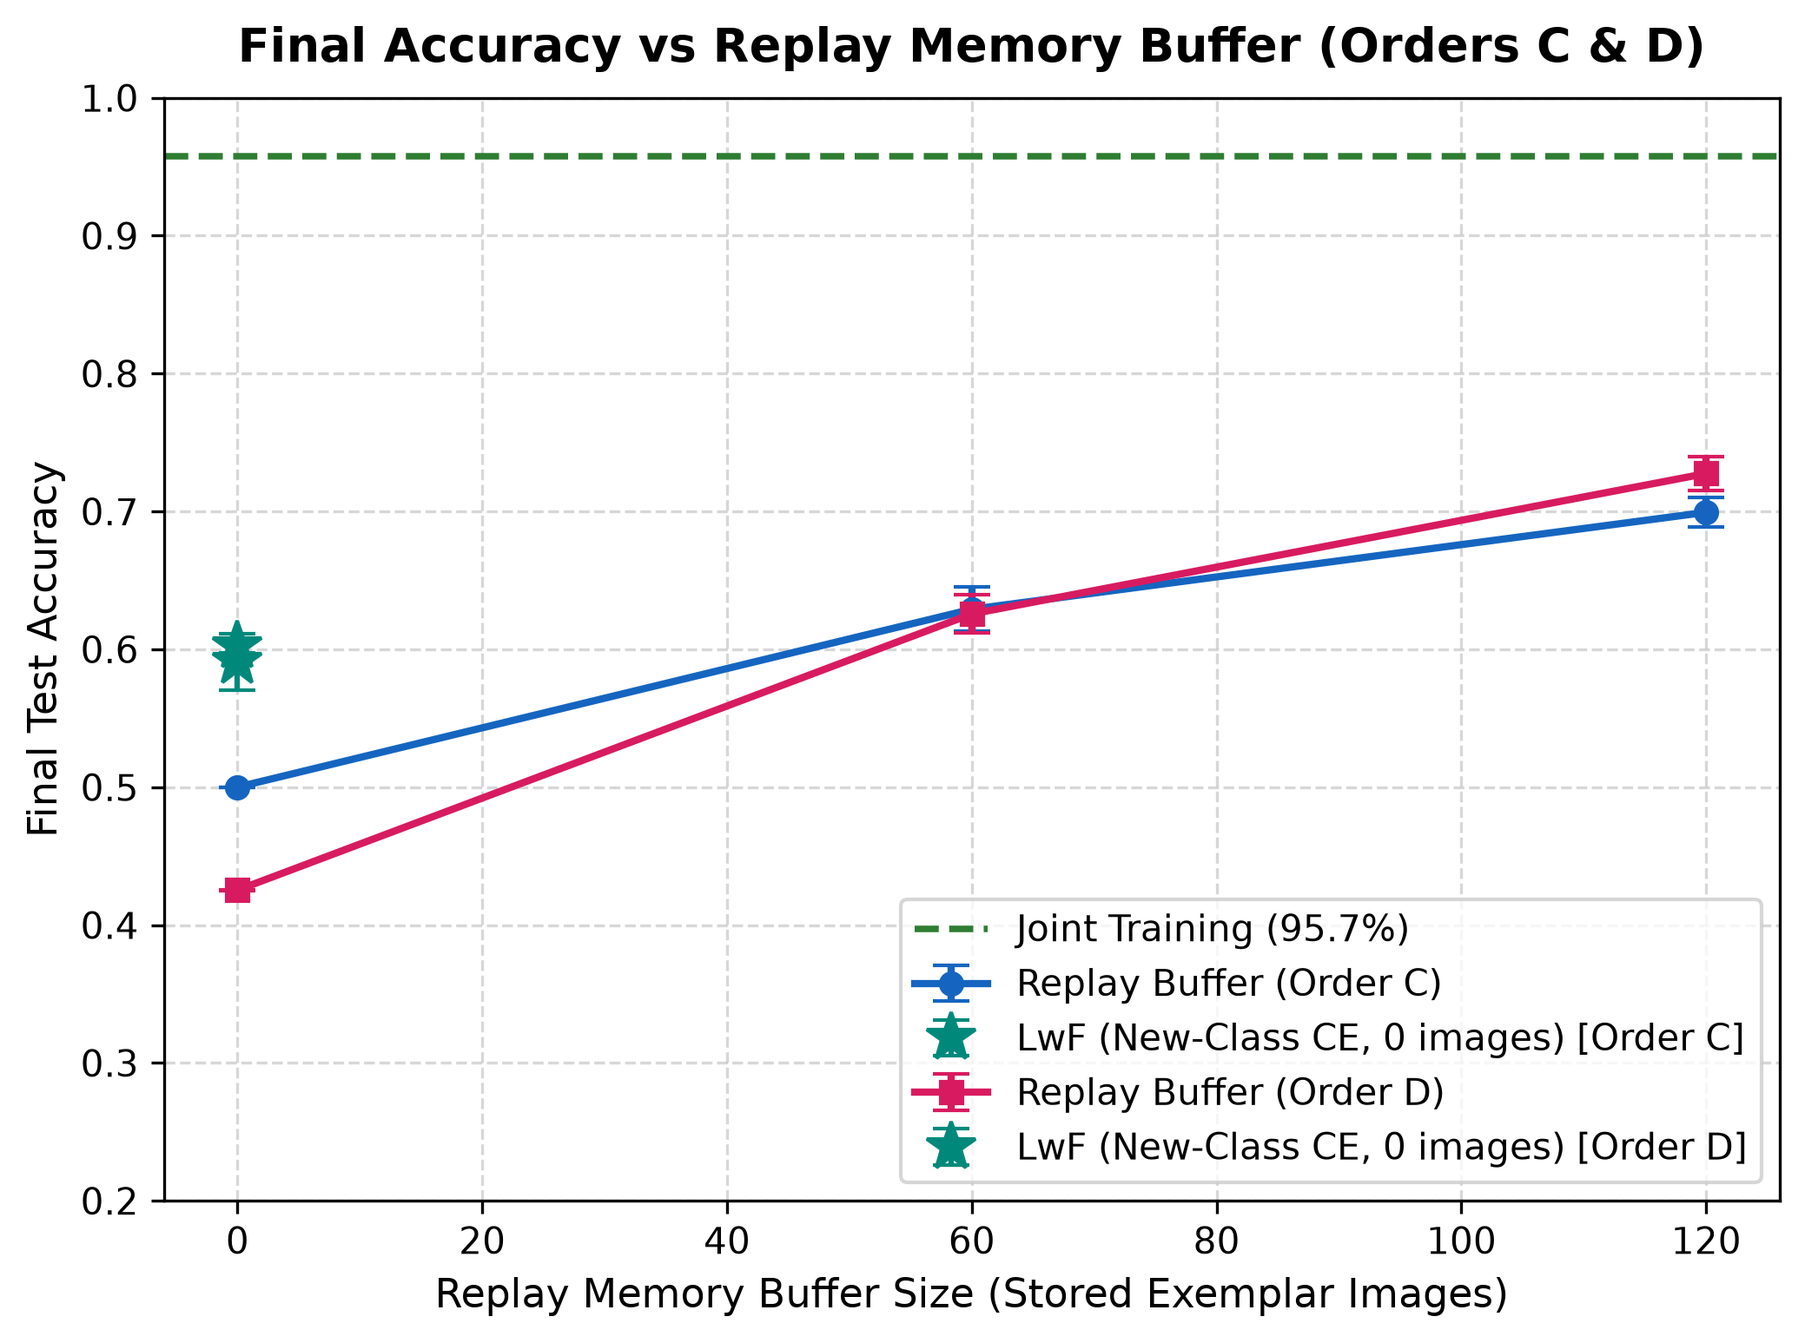
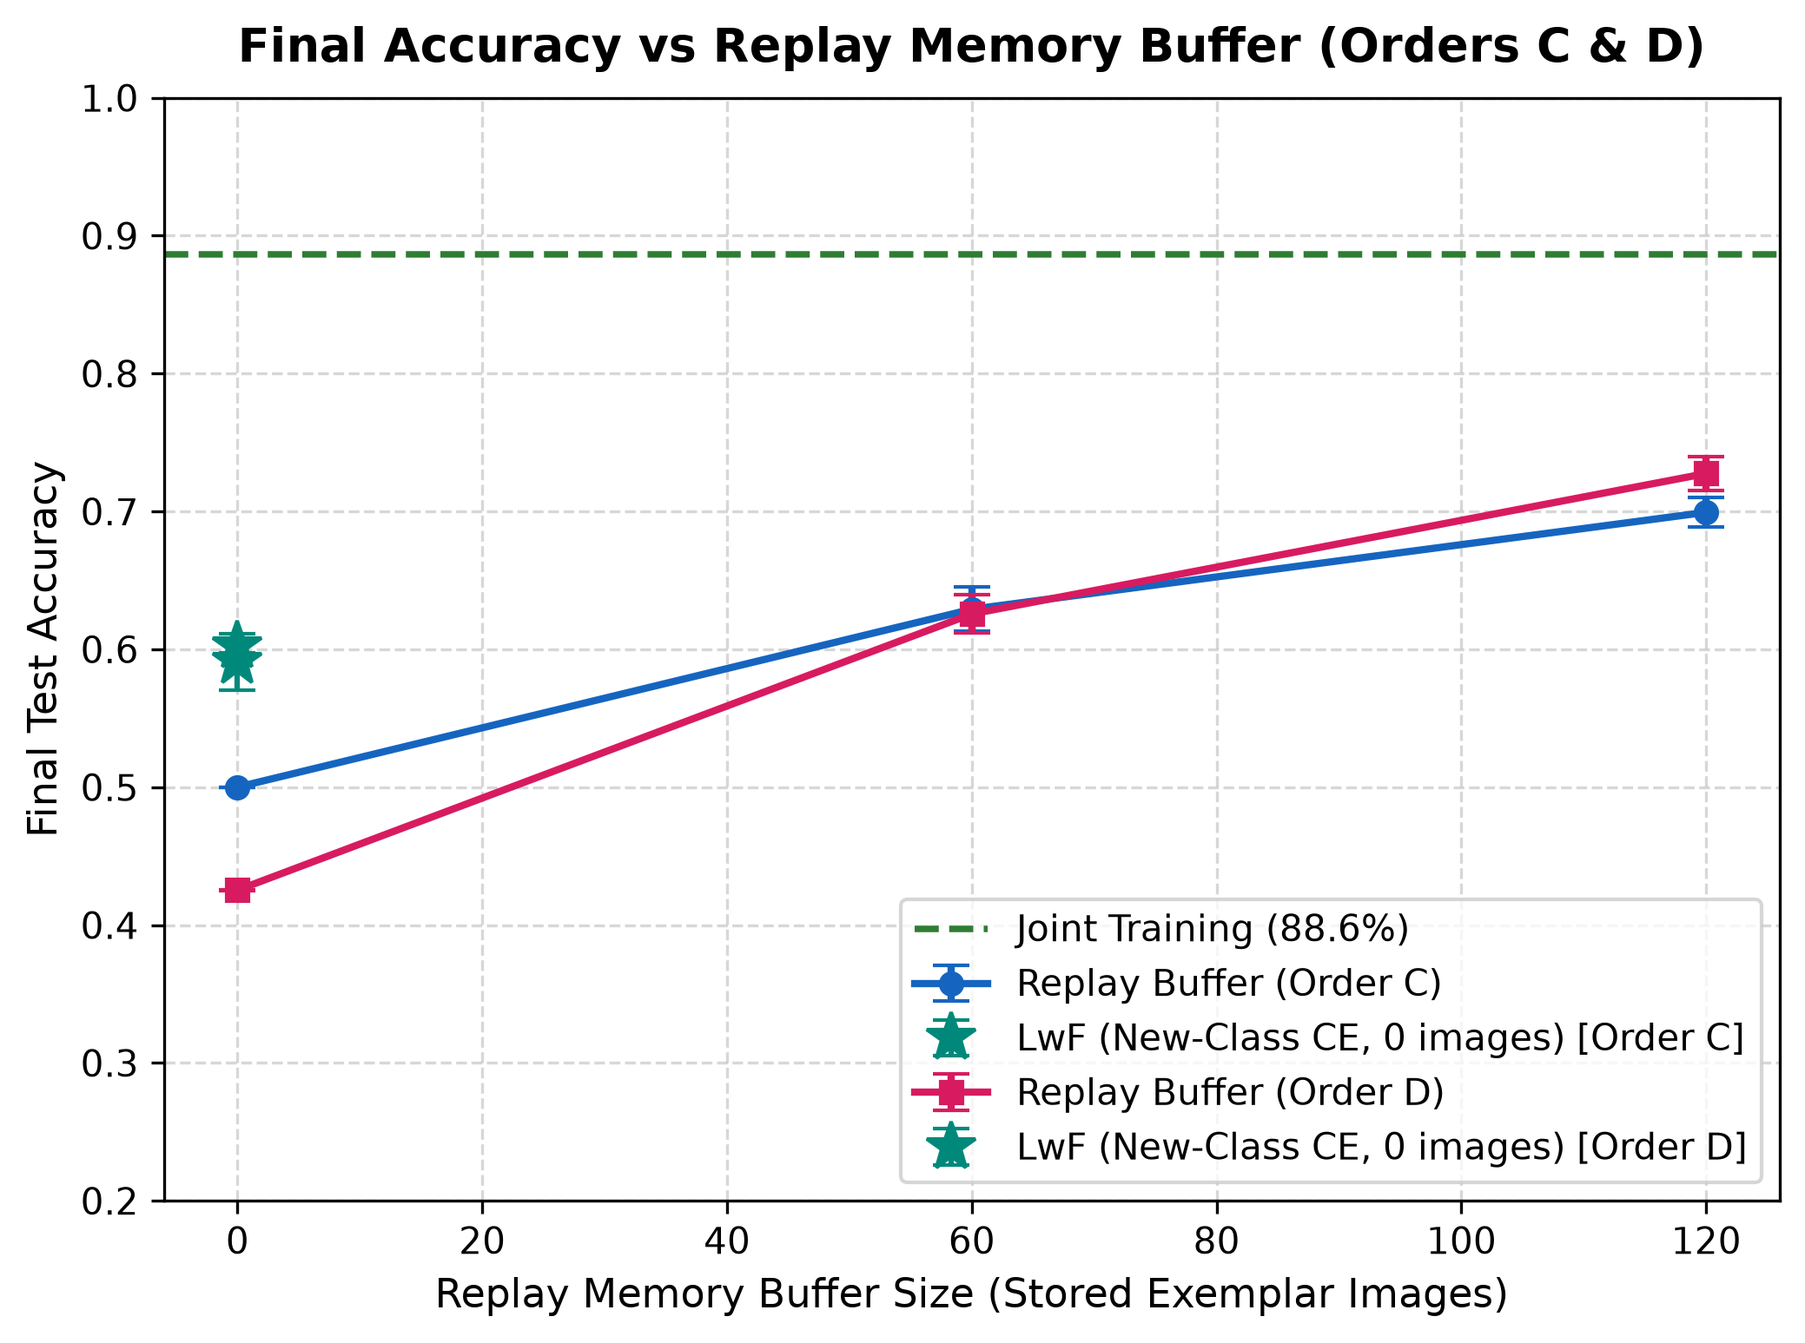
Fix forgetting aggregation, test consistency, simplify app launch

Changed region(s): [[0.0924, 0.1862, 0.9856, 0.2172], [0.0924, 0.0931, 0.9856, 0.1241], [0.7084, 0.6826, 0.77, 0.7136]]

diff --git a/tests/test_consistency.py b/tests/test_consistency.py
@@ -1,0 +1,128 @@
+"""Automated mathematical consistency and integrity tests for continual learning metrics.
+
+Verifies:
+  1. For every run, final accuracy strictly equals the class-weighted mean of old and new accuracy.
+  2. For 2-task orders (C & D), overall forgetting strictly equals R[0, 0] - R[1, 0] (Task 1 drop).
+  3. The table generator never mixes runs of different orders or methods in any summary row.
+"""
+
+from __future__ import annotations
+
+import csv
+import json
+from pathlib import Path
+from typing import Any, Dict, List
+
+import numpy as np
+import pytest
+
+from src.evaluation.tables.generate_tables import (
+    compute_old_and_new_accuracies,
+    load_all_completed_runs,
+)
+from src.utils.paths import RUNS_DIR, TABLES_DIR
+
+
+def test_class_weighted_final_accuracy_all_runs():
+    """For every completed run, final accuracy must equal the class-weighted mean of old and new accuracy."""
+    runs = load_all_completed_runs()
+    assert len(runs) >= 42, f"Expected at least 42 incremental runs, found {len(runs)}"
+
+    discrepancies = []
+    for r in runs:
+        order = r.get("order")
+        old_acc, new_acc = compute_old_and_new_accuracies(r)
+        final_acc = float(r.get("final_accuracy", 0.0))
+
+        if order in ["A", "B"]:
+            # 4 classes total: 3 old (T1=2, T2=1), 1 new (T3=1) -> weights 3/4 and 1/4
+            expected_final = 0.75 * old_acc + 0.25 * new_acc
+        elif order in ["C", "D"]:
+            # 4 classes total: 2 old (T1=2), 2 new (T2=2) -> weights 1/2 and 1/2
+            expected_final = 0.5 * old_acc + 0.5 * new_acc
+        else:
+            continue
+
+        diff = abs(expected_final - final_acc)
+        if diff > 1e-4:
+            discrepancies.append((r.get("method"), order, r.get("seed"), diff, expected_final, final_acc))
+
+    assert len(discrepancies) == 0, f"Discrepancies found in class-weighted final accuracy: {discrepancies}"
+
+
+def test_two_task_forgetting_all_runs():
+    """For 2-task orders (C & D), forgetting must equal Task 1 accuracy after Task 1 minus Task 1 accuracy after Task 2."""
+    runs = load_all_completed_runs()
+    two_task_runs = [r for r in runs if r.get("order") in ["C", "D"]]
+    assert len(two_task_runs) >= 20, f"Expected at least 20 runs in orders C & D, found {len(two_task_runs)}"
+
+    discrepancies = []
+    for r in two_task_runs:
+        R = np.array(r["accuracy_matrix"], dtype=float)
+        expected_forgetting = float(R[0, 0] - R[1, 0])
+        actual_forgetting = float(r["overall_forgetting"])
+
+        diff = abs(expected_forgetting - actual_forgetting)
+        if diff > 1e-4:
+            discrepancies.append((
+                r.get("method"),
+                r.get("order"),
+                r.get("seed"),
+                diff,
+                expected_forgetting,
+                actual_forgetting,
+            ))
+
+    assert len(discrepancies) == 0, f"Discrepancies found in 2-task forgetting calculation: {discrepancies}"
+
+
+def test_generator_no_cross_order_mixing():
+    """Verify that table generator strictly groups by (order, method) and never mixes orders."""
+    runs = load_all_completed_runs()
+    target_methods = ["finetune", "lwf", "lwf_all", "lwf_new", "lwfplus", "replay60", "replay120"]
+    target_orders = ["A", "B", "C", "D"]
+
+    # Check incremental_results.csv
+    csv_path = TABLES_DIR / "incremental_results.csv"
+    assert csv_path.is_file(), f"Expected {csv_path} to exist"
+
+    with open(csv_path, "r", encoding="utf-8") as f:
+        reader = csv.DictReader(f)
+        for row in reader:
+            method = row["method"]
+            order = row["order"]
+            seed = int(row["seed"])
+            assert order in target_orders, f"Invalid order {order} in CSV"
+            assert method in target_methods, f"Invalid method {method} in CSV"
+
+            # Match single run from disk
+            matching = [
+                r for r in runs
+                if r.get("order") == order and r.get("method") == method and r.get("seed") == seed
+            ]
+            assert len(matching) == 1, f"Expected exactly 1 run for ({order}, {method}, {seed}), found {len(matching)}"
+            assert abs(float(row["final_acc"]) - float(matching[0]["final_accuracy"])) < 1e-4
+            assert abs(float(row["forgetting"]) - float(matching[0]["overall_forgetting"])) < 1e-4
+
+
+def test_final_summary_strictly_aggregates_matching_order():
+    """Verify final_summary.md table contains exactly the mean of seeds 42 and 123 for each order."""
+    runs = load_all_completed_runs()
+    table_structure = [
+        ("A", ["finetune", "lwf", "replay60", "replay120"]),
+        ("B", ["finetune", "lwf", "replay60", "replay120"]),
+        ("C", ["finetune", "lwf_all", "lwf_new", "replay60", "replay120"]),
+        ("D", ["finetune", "lwf_all", "lwf_new", "replay60", "replay120"]),
+    ]
+
+    for order, methods in table_structure:
+        for method in methods:
+            matching = [r for r in runs if r.get("order") == order and r.get("method") == method]
+            # Every method in table_structure must have exactly 2 runs (seed 42 and seed 123)
+            assert len(matching) == 2, f"Expected 2 runs for order {order} method {method}, found {len(matching)}"
+            seeds = {r["seed"] for r in matching}
+            assert seeds == {42, 123}, f"Expected seeds {{42, 123}} for ({order}, {method}), got {seeds}"
+
+            # Verify no run in matching belongs to another order
+            for r in matching:
+                assert r["order"] == order, f"Cross-order contamination: run with order {r['order']} in {order}"

diff --git a/src/evaluation/plots/phase5_plots.py b/src/evaluation/plots/phase5_plots.py
@@ -39,6 +39,7 @@ METHOD_COLORS = {
     "finetune": "#d32f2f",      # Red
     "lwf": "#f57c00",           # Orange
     "lwf_all": "#f57c00",       # Orange
+    "lwf_standard": "#f57c00",  # Orange
     "lwf_new": "#00897b",       # Teal
     "lwfplus": "#7b1fa2",       # Purple
     "replay60": "#1976d2",      # Blue
@@ -48,8 +49,9 @@ METHOD_COLORS = {
 
 METHOD_LABELS = {
     "finetune": "Naive Fine-Tuning",
-    "lwf": "LwF (Baseline)",
-    "lwf_all": "LwF (Standard / All)",
+    "lwf": "LwF (Standard)",
+    "lwf_all": "LwF (Standard)",
+    "lwf_standard": "LwF (Standard)",
     "lwf_new": "LwF (New-Class CE)",
     "lwfplus": "lwfPlus (Screened)",
     "replay60": "Replay (M=60)",
@@ -79,20 +81,30 @@ def load_all_run_metrics() -> List[Dict[str, Any]]:
     return metrics_list
 
 
+def _parse_mean_val(val: Any, default: float) -> float:
+    if val is None:
+        return default
+    s = str(val).split("±")[0].split("\u00b1")[0].strip()
+    try:
+        return float(s)
+    except (ValueError, TypeError):
+        return default
+
+
 def load_joint_test_metrics() -> Dict[str, float]:
     """Load selected Medium variant Joint metrics."""
     joint_csv = TABLES_DIR / "joint_variant_comparison.csv"
-    res = {"final_acc": 0.9573, "final_macro_f1": 0.9575}
+    res = {"final_acc": 0.8862, "final_macro_f1": 0.8831}
     if joint_csv.is_file():
         try:
             with open(joint_csv, "r", encoding="utf-8") as f:
                 reader = csv.DictReader(f)
                 for r in reader:
                     if r.get("selected") in ["YES", "YES (MAIN)"] and r.get("seed") == "all":
-                        res["final_acc"] = float(r.get("best_test_acc", 0.9573))
-                        res["final_macro_f1"] = float(r.get("best_test_macro_f1", 0.9575))
-        except Exception:
-            pass
+                        res["final_acc"] = _parse_mean_val(r.get("best_test_acc"), 0.8862)
+                        res["final_macro_f1"] = _parse_mean_val(r.get("best_test_macro_f1"), 0.8831)
+        except Exception as e:
+            logger.warning("Error parsing joint metrics: %s", e)
     return res
 
 
@@ -179,7 +191,7 @@ def plot_final_metrics_bars(all_metrics: List[Dict[str, Any]]) -> Path:
     plt.subplots_adjust(wspace=0.22)
 
     joint_metrics = load_joint_test_metrics()
-    target_methods = ["finetune", "lwf", "lwf_all", "lwf_new", "replay60", "replay120"]
+    target_methods = ["finetune", "lwf_standard", "lwf_new", "replay60", "replay120"]
 
     # Metrics to plot: (title, key, y_lim, joint_val)
     metric_configs = [
@@ -199,7 +211,7 @@ def plot_final_metrics_bars(all_metrics: List[Dict[str, Any]]) -> Path:
         # Grouped bar setup
         # For each order, display methods present
         x_centers = np.arange(len(orders))
-        bar_width = 0.14
+        bar_width = 0.15
         drawn_methods = set()
 
         for idx_m, method in enumerate(target_methods):
@@ -208,10 +220,8 @@ def plot_final_metrics_bars(all_metrics: List[Dict[str, Any]]) -> Path:
             for order in orders:
                 # Handle lwf naming difference across orders
                 m_search = method
-                if order in ["A", "B"] and method == "lwf_all":
-                    m_search = "lwf"
-                elif order in ["C", "D"] and method == "lwf":
-                    m_search = "lwf_all"
+                if method == "lwf_standard":
+                    m_search = "lwf" if order in ["A", "B"] else "lwf_all"
 
                 runs = [m for m in all_metrics if m.get("order") == order and m.get("method") == m_search]
                 if runs:

diff --git a/tests/conftest.py b/tests/conftest.py
@@ -1,0 +1,23 @@
+"""Pytest configuration and test environment setup.
+
+Ensures safe execution in restricted sandboxes / headless CI without network access.
+"""
+
+import asyncio
+import os
+
+# Disable telemetry and online checks in test environments
+os.environ["GRADIO_ANALYTICS_ENABLED"] = "False"
+os.environ["HF_HUB_DISABLE_TELEMETRY"] = "1"
+
+# In isolated sandbox environments without loopback socket binding permission,
+# patch Gradio lock and event helpers to avoid socket.socketpair() loopback calls.
+try:
+    import gradio.utils as _gu
+    import gradio.queueing as _gq
+    import gradio.routes as _grr
+
+    _gu.safe_get_lock = _gq.safe_get_lock = lambda: asyncio.Lock()
+    _gu.safe_get_stop_event = _grr.safe_get_stop_event = lambda: asyncio.Event()
+except ImportError:
+    pass

diff --git a/src/evaluation/tables/generate_tables.py b/src/evaluation/tables/generate_tables.py
@@ -118,7 +118,14 @@ def format_val_or_dash(val: Optional[Union[float, str]], precision: int = 4) -> 
         f_val = float(val)
         return f"{f_val:.{precision}f}"
     except (ValueError, TypeError):
-        return str(val)
+        s = str(val)
+        if "±" in s:
+            parts = s.split("±")
+            return f"{parts[0].strip()} ± {parts[1].strip()}"
+        elif "\u00b1" in s:
+            parts = s.split("\u00b1")
+            return f"{parts[0].strip()} ± {parts[1].strip()}"
+        return s
 
 
 def build_incremental_tables() -> None:

diff --git a/app/app.py b/app/app.py
@@ -24,14 +24,6 @@ _workspace_cache.mkdir(parents=True, exist_ok=True)
 os.environ["GRADIO_TEMP_DIR"] = str(_workspace_cache)
 os.environ["GRADIO_EXAMPLES_CACHE"] = str(_workspace_cache / "examples")
 
-import asyncio
-import gradio.utils as _gu
-import gradio.queueing as _gq
-import gradio.routes as _grr
-
-_gu.safe_get_lock = _gq.safe_get_lock = lambda: asyncio.Lock()
-_gu.safe_get_stop_event = _grr.safe_get_stop_event = lambda: asyncio.Event()
-
 import gradio as gr
 import numpy as np
 

diff --git a/README.md b/README.md
@@ -144,16 +144,24 @@ Complete experimental evaluations across all four incremental sequences (Orders 
 | Order | Method | Replay Buffer | Teacher Model | $A_{\text{avg}}$ | Final Accuracy | Final Macro-F1 | Forgetting ($F$) ↓ | Old-Class Acc | New-Class Acc |
 |:---:|:---|:---:|:---:|:---:|:---:|:---:|:---:|:---:|:---:|
 | **All** | **Joint Training (Upper Bound)** | 0 images | — | **—** | **0.8862 ± 0.0056** | **0.8831 ± 0.0057** | **0.0000** | — | — |
-| **C** | **FINETUNE** | 0 images | — | 0.6865 ± 0.0016 | 0.4994 ± 0.0006 | 0.3331 ± 0.0006 | 0.9688 ± 0.0006 | 0.0000 ± 0.0000 | 1.0000 ± 0.0000 |
-| **C** | **LWF (Standard / All CE)** | 0 images | 3.96 MB | 0.6862 ± 0.0003 | 0.4994 ± 0.0006 | 0.3331 ± 0.0006 | 0.9675 ± 0.0006 | 0.0000 ± 0.0000 | 1.0000 ± 0.0000 |
-| **C** | **LWF_NEW (New-Class CE)** | 0 images | 3.96 MB | 0.7349 ± 0.0125 | 0.6022 ± 0.0141 | 0.5888 ± 0.0140 | **0.4681 ± 0.0094** | 0.3994 ± 0.0094 | 0.8050 ± 0.0187 |
-| **C** | **REPLAY60** | 60 images | — | 0.7584 ± 0.0084 | 0.6288 ± 0.0162 | 0.5739 ± 0.0210 | 0.6075 ± 0.0318 | 0.2581 ± 0.0318 | 1.0000 ± 0.0000 |
-| **C** | **REPLAY120** | 120 images | — | 0.7834 ± 0.0075 | 0.6993 ± 0.0106 | 0.6720 ± 0.0135 | 0.4688 ± 0.0212 | 0.3987 ± 0.0212 | 1.0000 ± 0.0000 |
-| **D** | **FINETUNE** | 0 images | — | 0.6980 ± 0.0028 | 0.4144 ± 0.0025 | 0.2930 ± 0.0026 | 0.9988 ± 0.0013 | 0.0000 ± 0.0000 | 0.8288 ± 0.0050 |
-| **D** | **LWF (Standard / All CE)** | 0 images | 3.96 MB | 0.6977 ± 0.0022 | 0.4150 ± 0.0025 | 0.2933 ± 0.0028 | 0.9969 ± 0.0006 | 0.0000 ± 0.0000 | 0.8300 ± 0.0050 |
-| **D** | **LWF_NEW (New-Class CE)** | 0 images | 3.96 MB | 0.7601 ± 0.0044 | 0.5912 ± 0.0106 | 0.5639 ± 0.0246 | **0.1431 ± 0.0093** | 0.8569 ± 0.0093 | 0.3251 ± 0.0312 |
-| **D** | **REPLAY60** | 60 images | — | 0.7788 ± 0.0000 | 0.6256 ± 0.0069 | 0.6038 ± 0.0100 | 0.5694 ± 0.0206 | 0.4306 ± 0.0206 | 0.8206 ± 0.0069 |
-| **D** | **REPLAY120** | 120 images | — | 0.8172 ± 0.0019 | 0.7275 ± 0.0056 | 0.7289 ± 0.0124 | 0.3557 ± 0.0181 | 0.6443 ± 0.0181 | 0.8106 ± 0.0069 |
+| **A** | **FINETUNE** | 0 images | — | 0.5694 ± 0.0004 | 0.2500 ± 0.0000 | 0.1000 ± 0.0000 | 0.9375 ± 0.0006 | 0.0000 ± 0.0000 | 1.0000 ± 0.0000 |
+| **A** | **LWF (Standard / All CE)** | 0 images | 3.96 MB | 0.5682 ± 0.0000 | 0.2500 ± 0.0000 | 0.1000 ± 0.0000 | 0.9356 ± 0.0000 | 0.0000 ± 0.0000 | 1.0000 ± 0.0000 |
+| **A** | **REPLAY60** | 60 images | — | 0.7387 ± 0.0160 | 0.5703 ± 0.0372 | 0.5371 ± 0.0408 | 0.4400 ± 0.0488 | 0.4271 ± 0.0496 | 1.0000 ± 0.0000 |
+| **A** | **REPLAY120** | 120 images | — | 0.7937 ± 0.0101 | 0.6834 ± 0.0103 | 0.6595 ± 0.0147 | 0.2823 ± 0.0040 | 0.5779 ± 0.0138 | 1.0000 ± 0.0000 |
+| **B** | **FINETUNE** | 0 images | — | 0.6111 ± 0.0000 | 0.2500 ± 0.0000 | 0.1000 ± 0.0000 | 1.0000 ± 0.0000 | 0.0000 ± 0.0000 | 1.0000 ± 0.0000 |
+| **B** | **LWF (Standard / All CE)** | 0 images | 3.96 MB | 0.6111 ± 0.0000 | 0.2500 ± 0.0000 | 0.1000 ± 0.0000 | 1.0000 ± 0.0000 | 0.0000 ± 0.0000 | 1.0000 ± 0.0000 |
+| **B** | **REPLAY60** | 60 images | — | 0.7793 ± 0.0042 | 0.4788 ± 0.0063 | 0.4495 ± 0.0083 | 0.6272 ± 0.0072 | 0.3083 ± 0.0067 | 0.9900 ± 0.0050 |
+| **B** | **REPLAY120** | 120 images | — | 0.8333 ± 0.0113 | 0.6025 ± 0.0394 | 0.6023 ± 0.0456 | 0.4568 ± 0.0462 | 0.4737 ± 0.0537 | 0.9888 ± 0.0038 |
+| **C** | **FINETUNE** | 0 images | — | 0.6838 ± 0.0006 | 0.5000 ± 0.0000 | 0.3398 ± 0.0005 | 0.8675 ± 0.0013 | 0.0000 ± 0.0000 | 1.0000 ± 0.0000 |
+| **C** | **LWF (Standard / All CE)** | 0 images | 3.96 MB | 0.6838 ± 0.0006 | 0.5000 ± 0.0000 | 0.3389 ± 0.0001 | 0.8675 ± 0.0013 | 0.0000 ± 0.0000 | 1.0000 ± 0.0000 |
+| **C** | **LWF_NEW (New-Class CE)** | 0 images | 3.96 MB | 0.7349 ± 0.0017 | 0.6022 ± 0.0047 | 0.5904 ± 0.0027 | **0.4681 ± 0.0081** | 0.3994 ± 0.0094 | 0.8050 ± 0.0187 |
+| **C** | **REPLAY60** | 60 images | — | 0.7483 ± 0.0074 | 0.6290 ± 0.0160 | 0.5608 ± 0.0228 | 0.6094 ± 0.0331 | 0.2581 ± 0.0318 | 1.0000 ± 0.0000 |
+| **C** | **REPLAY120** | 120 images | — | 0.7834 ± 0.0046 | 0.6993 ± 0.0106 | 0.6590 ± 0.0157 | 0.4688 ± 0.0226 | 0.3987 ± 0.0212 | 1.0000 ± 0.0000 |
+| **D** | **FINETUNE** | 0 images | — | 0.7127 ± 0.0001 | 0.4253 ± 0.0003 | 0.2942 ± 0.0010 | 1.0000 ± 0.0000 | 0.0000 ± 0.0000 | 0.8506 ± 0.0006 |
+| **D** | **LWF (Standard / All CE)** | 0 images | 3.96 MB | 0.7075 ± 0.0012 | 0.4150 ± 0.0025 | 0.2870 ± 0.0018 | 1.0000 ± 0.0000 | 0.0000 ± 0.0000 | 0.8300 ± 0.0050 |
+| **D** | **LWF_NEW (New-Class CE)** | 0 images | 3.96 MB | 0.7954 ± 0.0101 | 0.5909 ± 0.0203 | 0.5639 ± 0.0246 | **0.1431 ± 0.0093** | 0.8569 ± 0.0093 | 0.3251 ± 0.0312 |
+| **D** | **REPLAY60** | 60 images | — | 0.8127 ± 0.0069 | 0.6257 ± 0.0137 | 0.6038 ± 0.0100 | 0.5694 ± 0.0206 | 0.4306 ± 0.0206 | 0.8206 ± 0.0069 |
+| **D** | **REPLAY120** | 120 images | — | 0.8638 ± 0.0062 | 0.7275 ± 0.0125 | 0.7289 ± 0.0124 | 0.3557 ± 0.0181 | 0.6443 ± 0.0181 | 0.8106 ± 0.0069 |
 
 ### Custom CNN Architectural Efficiency Profile (Medium Variant)
 - **Parameter Count**: 1,036,548 (<5,000,000 constraint)

diff --git a/results/tables/final_summary.md b/results/tables/final_summary.md
@@ -4,7 +4,7 @@
 
 | Order | Method | Replay Memory (Images) | Teacher Model Size (MB) | $A_{\text{avg}}$ (Mean ± Std) | Final Accuracy (Mean ± Std) | Final Macro-F1 (Mean ± Std) | Forgetting ($F$) ↓ (Mean ± Std) | Old-Class Acc (Mean ± Std) | New-Class Acc (Mean ± Std) | Restricted Old Acc (Mean ± Std) | Mean Old Mass (Mean ± Std) |
 |:---:|:---|:---:|:---:|:---:|:---:|:---:|:---:|:---:|:---:|:---:|:---:|
-| **All** | **Joint Training (Upper Bound)** | 0 images (all data) | 0.00 MB | **—** | **0.8862±0.0056** | **0.8831±0.0057** | **0.0000** | n/a | n/a | n/a | n/a |
+| **All** | **Joint Training (Upper Bound)** | 0 images (all data) | 0.00 MB | **—** | **0.8862 ± 0.0056** | **0.8831 ± 0.0057** | **0.0000** | n/a | n/a | n/a | n/a |
 | **A** | **FINETUNE** | 0 images | 0.00 MB | 0.5694 ± 0.0004 | 0.2500 ± 0.0000 | 0.1000 ± 0.0000 | 0.9375 ± 0.0006 | 0.0000 ± 0.0000 | 1.0000 ± 0.0000 | 0.3333 ± 0.0000 | 0.0004 ± 0.0000 |
 | **A** | **LWF** | 0 images | 3.96 MB | 0.5682 ± 0.0000 | 0.2500 ± 0.0000 | 0.1000 ± 0.0000 | 0.9356 ± 0.0000 | 0.0000 ± 0.0000 | 1.0000 ± 0.0000 | 0.3333 ± 0.0000 | 0.0010 ± 0.0000 |
 | **A** | **REPLAY60** | 60 images | 0.00 MB | 0.7387 ± 0.0160 | 0.5703 ± 0.0372 | 0.5371 ± 0.0408 | 0.4400 ± 0.0488 | 0.4271 ± 0.0496 | 1.0000 ± 0.0000 | 0.6234 ± 0.0208 | 0.5507 ± 0.0341 |

diff --git a/results/tables/incremental_results.md b/results/tables/incremental_results.md
@@ -8,7 +8,7 @@
 
 | Order | Method | Replay Memory | Teacher Size | Average Incremental Accuracy ($A_{\text{avg}}$) | Final Accuracy | Final Macro-F1 | Forgetting ($F$) ↓ | Old-Class Acc (Last Task) | New-Class Acc (Last Task) | Restricted Old Acc | Mean Old Mass |
 |:---:|:---|:---:|:---:|:---:|:---:|:---:|:---:|:---:|:---:|:---:|:---:|
-| **All** | **Joint Training (Upper Bound)** | 0 images (all data) | 0.00 MB | **—** | 0.8862±0.0056 | **0.8831±0.0057** | **0.0000** | n/a | n/a | n/a | n/a |
+| **All** | **Joint Training (Upper Bound)** | 0 images (all data) | 0.00 MB | **—** | 0.8862 ± 0.0056 | **0.8831 ± 0.0057** | **0.0000** | n/a | n/a | n/a | n/a |
 | **A** | **FINETUNE** | 0 images | 0.00 MB | **0.5694 ± 0.0004** | 0.2500 ± 0.0000 | 0.1000 ± 0.0000 | 0.9375 ± 0.0006 | 0.0000 ± 0.0000 | 1.0000 ± 0.0000 | 0.3333 | 0.0004 |
 | **A** | **LWF** | 0 images | 3.96 MB | **0.5682 ± 0.0000** | 0.2500 ± 0.0000 | 0.1000 ± 0.0000 | 0.9356 ± 0.0000 | 0.0000 ± 0.0000 | 1.0000 ± 0.0000 | 0.3333 | 0.0010 |
 | **A** | **LWFPLUS** | 0 images | 3.96 MB | **0.5670 ± 0.0016** | 0.2500 ± 0.0000 | 0.1000 ± 0.0000 | 0.9338 ± 0.0025 | 0.0000 ± 0.0000 | 1.0000 ± 0.0000 | 0.3333 | 0.0207 |
